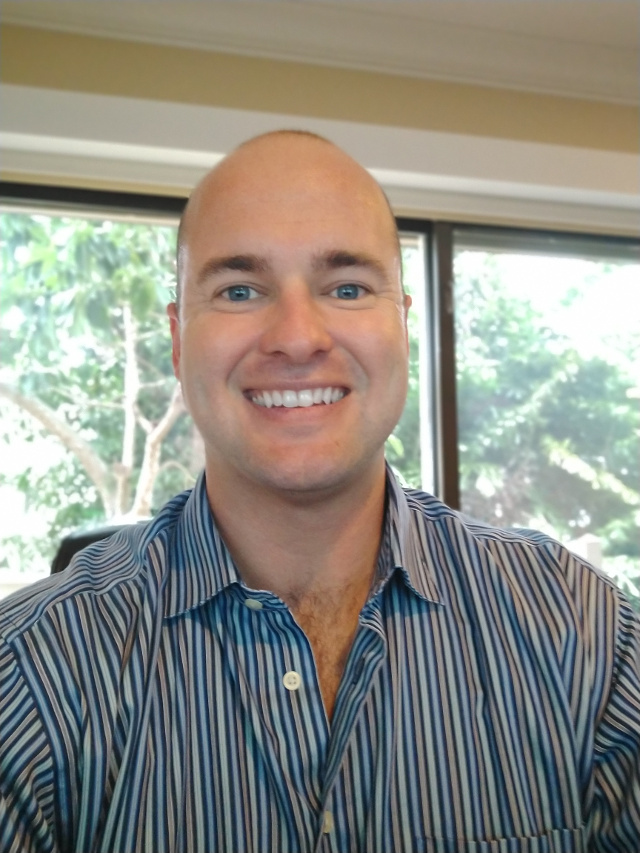
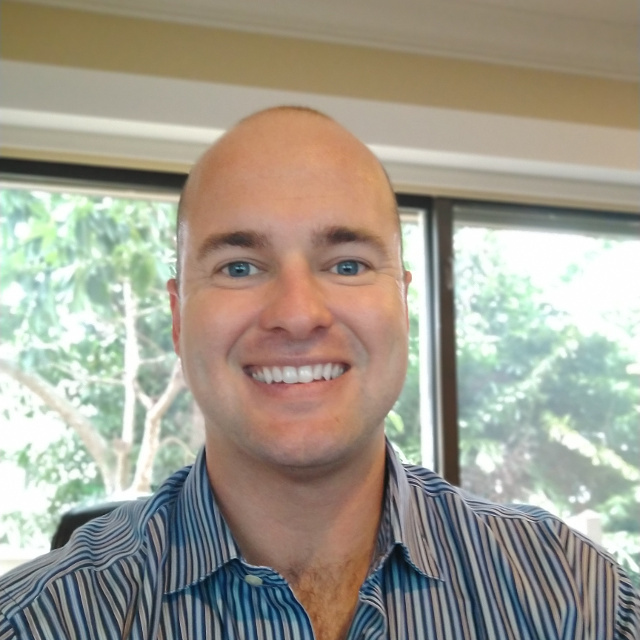
feat: Round portrait and style changes

diff --git a/css/styles.css b/css/styles.css
@@ -31,6 +31,10 @@ a:visited {
   color: #039be5;
 }
 
+p {
+  background-color: #fff;
+}
+
 .container {
   display: grid;
   grid-template-areas:
@@ -54,6 +58,7 @@ a:visited {
   border-bottom: 1px solid #757575;
   justify-items: end;
   box-shadow: 0 4px 2px -2px gray;
+  margin-bottom: 20px;
 }
 
 .projects {
@@ -69,6 +74,10 @@ a:visited {
     "project7 project8";
     max-width: 1024px;
     grid-auto-columns: 1fr;
+    background-color: #f7f7f7;
+    padding: 8px;
+    box-shadow: 0 0 4px rgba(0,0,0,.14),0 4px 8px rgba(0,0,0,.28);
+    margin-bottom: 20px;
 }
 
 .sidenav {
@@ -122,6 +131,7 @@ a:visited {
 
 .software {
   grid-area: software;
+  background-color: #f7f7f7;
 }
 
 .header__logo {
@@ -169,6 +179,10 @@ h2 {
 .about {
   grid-area: about;
   max-width: 1024px;
+  background-color: #f7f7f7;
+  margin-bottom: 20px;
+  padding: 8px;
+  box-shadow: 0 0 4px rgba(0,0,0,.14),0 4px 8px rgba(0,0,0,.28);
 }
 
 .project1 {
@@ -228,35 +242,35 @@ h2 {
 }
 
 .one {
-  background-color: #3491a3;
+  background-color: #ea4335;
 }
 
 .two {
-  background-color: #7eb8de;
+  background-color: #4285f4;
 }
 
 .three {
-  background-color: #3c78aa;
+  background-color: #ea4335;
 }
 
 .four {
-  background-color: #95d680;
+  background-color: #34a853;
 }
 
 .five {
-  background-color: #9966ff;
+  background-color: #34a853;
 }
 
 .six {
-  background-color: #ff6347;
+  background-color: #fbbc05;
 }
 
 .seven {
-  background-color: #fff284;
+  background-color: #4285f4;
 }
 
 .eight {
-  background-color: #d73e68;
+  background-color: #fbbc05;
 }
 
 .project-square span {
@@ -292,10 +306,10 @@ h2 {
 }
 
 .portrait {
-  width: 100%;
-  height: auto;
-  float: left;
-  padding: 0 10px 10px 0;
+  display: block;
+  max-width: 300px;
+  margin: 0 auto;
+  border-radius: 50%;
 }
 
 /* tablet */
@@ -317,7 +331,8 @@ h2 {
     font-size: 2.8em;
   }
   .portrait {
-    max-width: 300px;
+    float: left;
+    padding: 0 10px 10px 0;
   }
 }
 

diff --git a/index.html b/index.html
@@ -26,13 +26,14 @@
         <a href="javascript:void(0);" class="burger" onclick="openNav()">
           <i class="fa fa-bars"></i>
         </a>
-        <div class="header__name">Rusty Abbott</div>
+        <div class="header__name"><a href="index.html">Rusty Abbott</a></div>
         <div class="header__tag">Full Stack Developer</div>
       </header>
 
       <section class="about">
         <h1 id="about">About Me</h1>
-        <p><img src="img/portrait.jpg" alt="Rusty Abbott" class="portrait">Welcome to my portfolio! My name is Rusty Abbott and I'm from Stuart, Florida. Here you'll find a collection of projects I'm working on. <a href="https://hutchinson-island.com" target="_blank">Hutchinson-Island.com</a> and <a href="http://rustyabbott.com" target="_blank">RustyAbbott.com</a> are websites I've developed for my work as a real estate broker associate and the rest are for the Grow with Google / Udacity Front-End Web Developer program.</p>
+        <img src="img/portrait.jpg" alt="Rusty Abbott" class="portrait">
+        <p>Welcome to my portfolio! My name is Rusty Abbott and I'm from Stuart, Florida. Here you'll find a collection of projects I'm working on. <a href="https://hutchinson-island.com" target="_blank">Hutchinson-Island.com</a> and <a href="http://rustyabbott.com" target="_blank">RustyAbbott.com</a> are websites I've developed for my work as a real estate broker associate and the rest are for the Grow with Google / Udacity Front-End Web Developer program.</p>
       </section>
 
       <section class="projects" id="projects">
